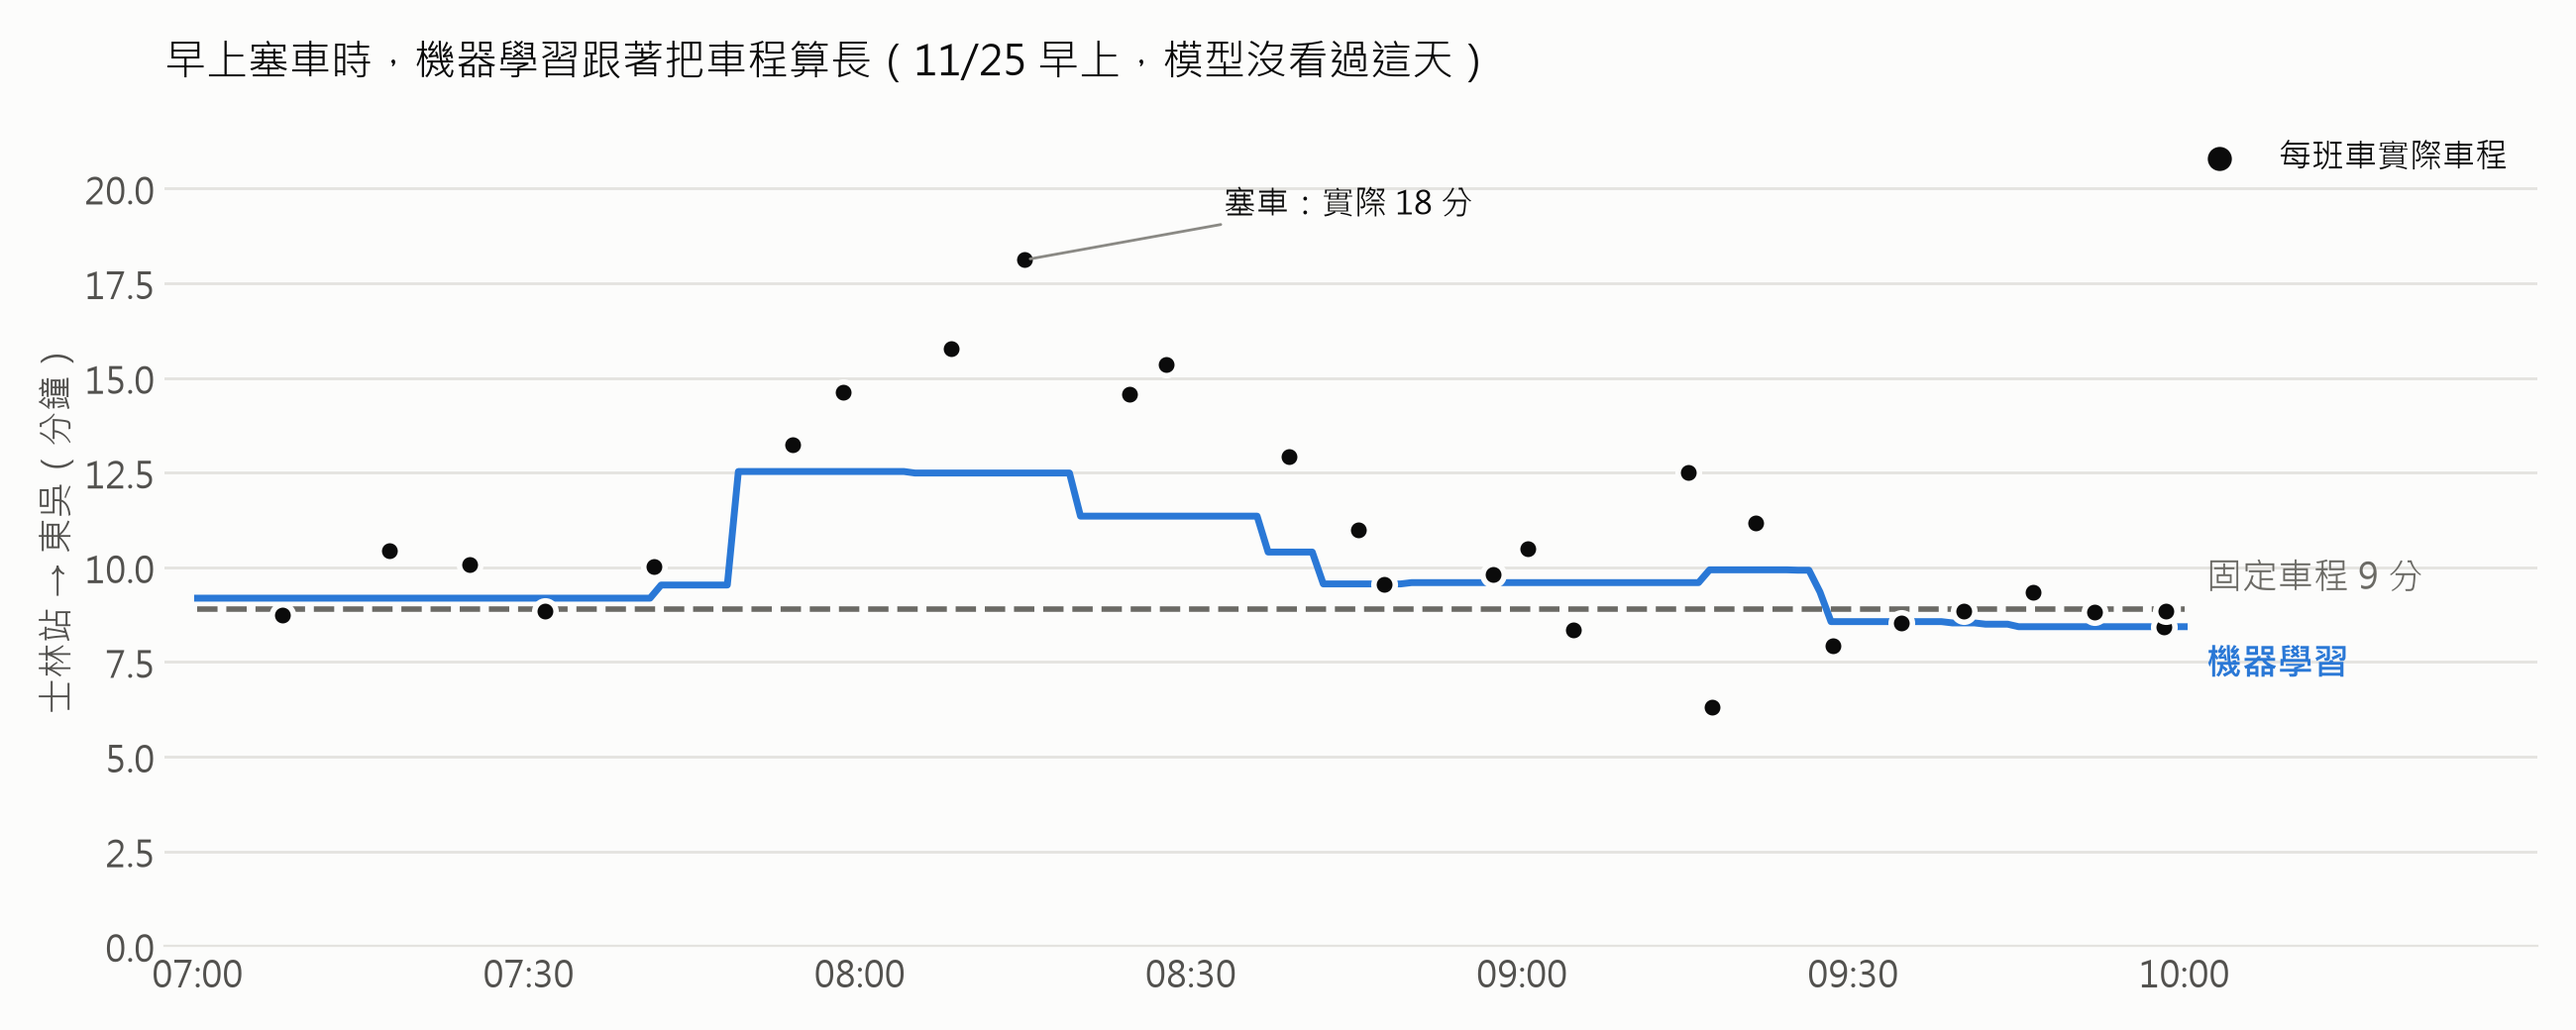
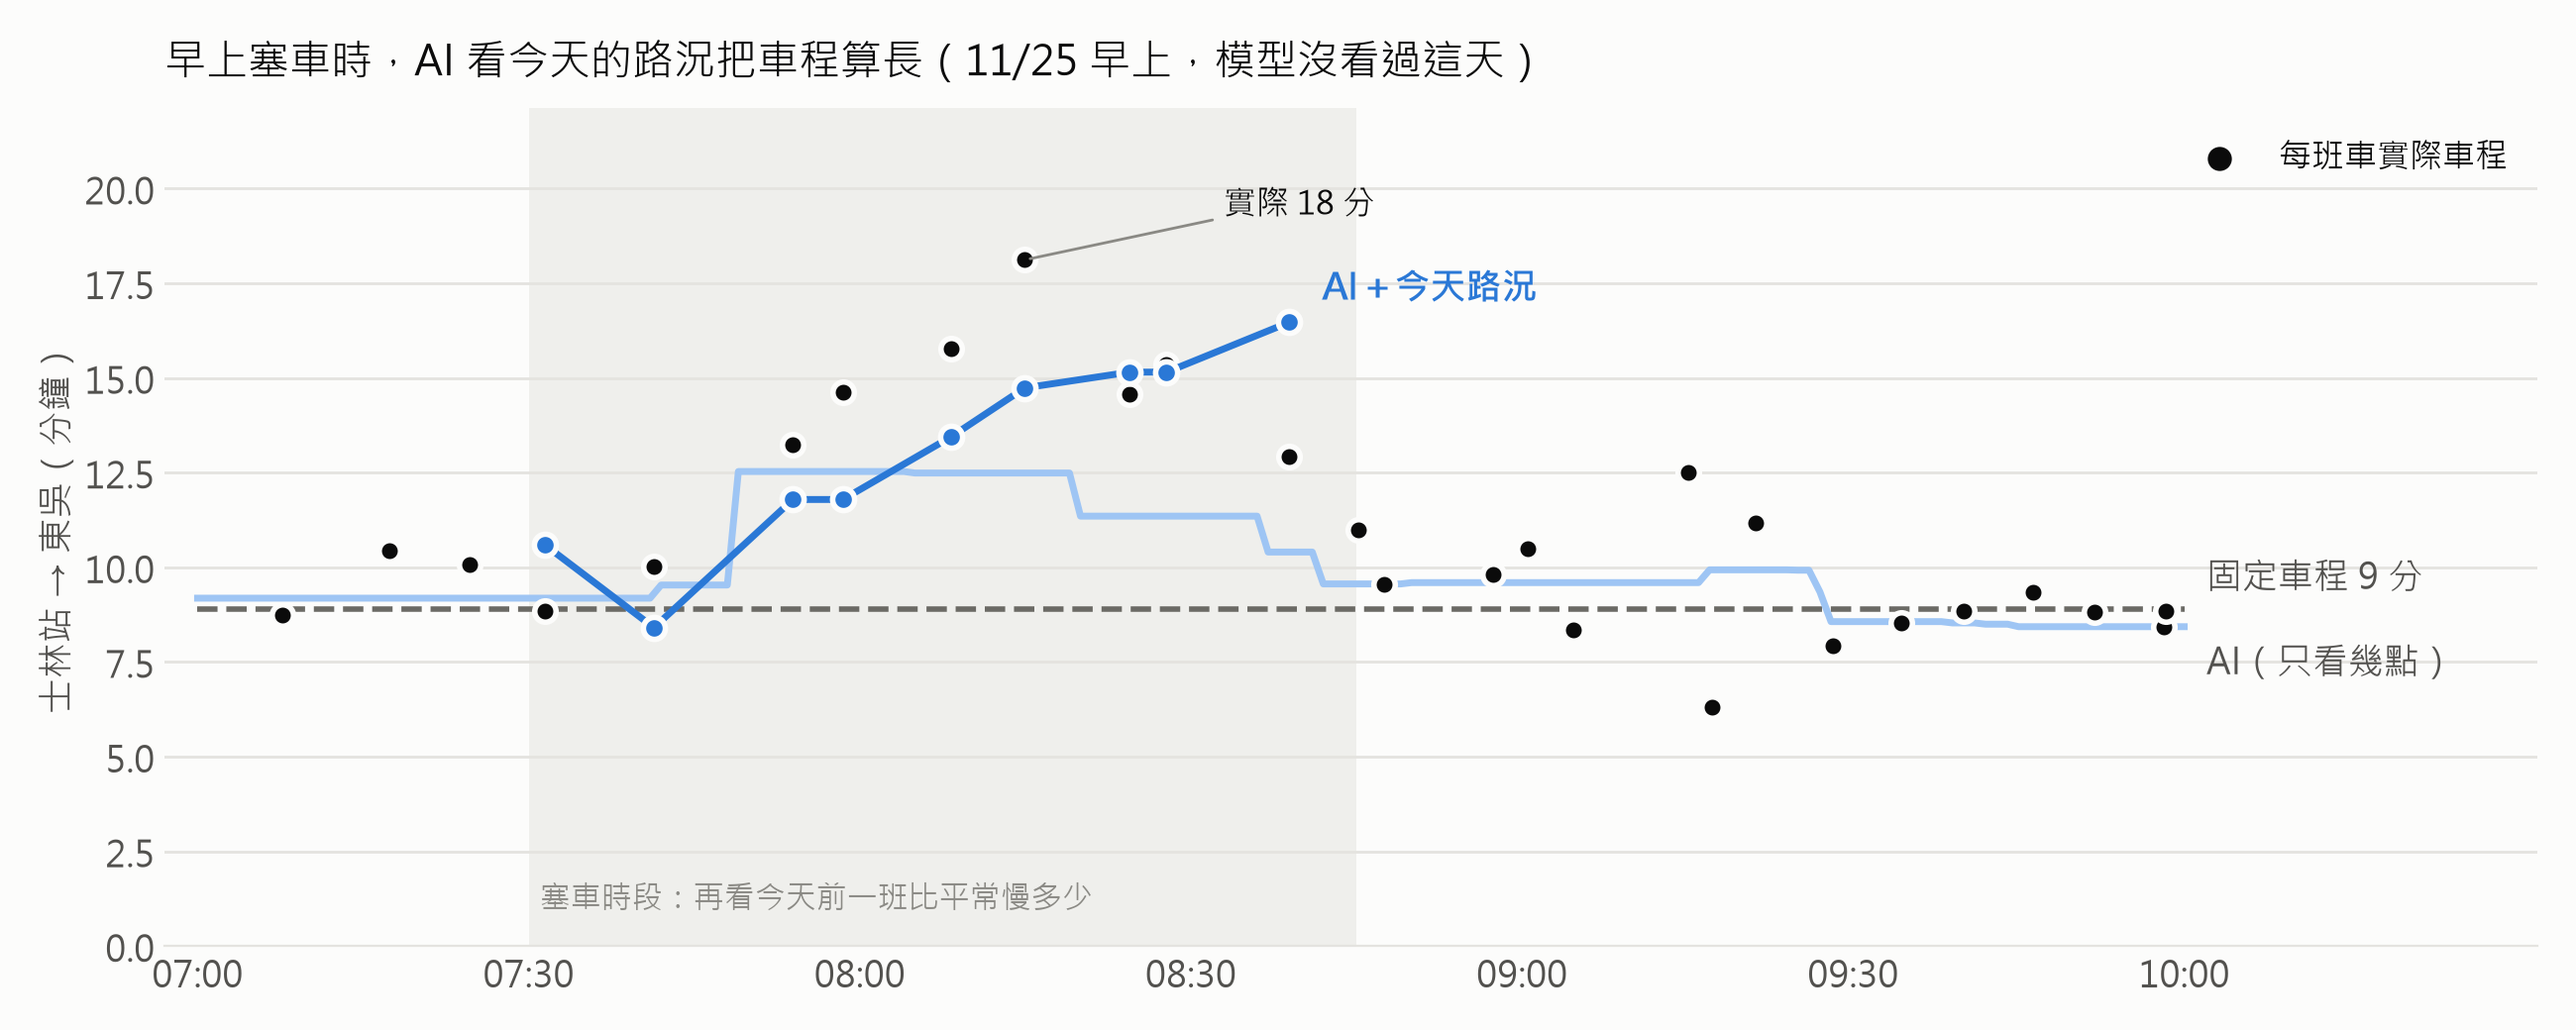
車程模型加今天路況：塞車時段依上一班比平常慢多少線性調整
塞車時段平均差 2.15 → 1.89 分（固定 3.18、v0 2.52），全天 0.88 分；
直接丟給樹模型沒進步、第一次驗證有資料漏洞，都照實寫進文件。

diff --git a/tools/學習557.py b/tools/學習557.py
@@ -7,7 +7,7 @@
   1. 車輛位置 → 幾分鐘後到士林站：路上每台車（含還在跑回程、等一下掉頭的車）現在在哪一站、
      多久前回報、現在幾點、星期幾 → 這台車幾分鐘後開到捷運士林站。學生在家提早 N 分鐘查，
      就挑「N 分鐘後第一台到站的車」
-  2. 車程：士林站 → 東吳幾分鐘（幾點、星期幾）
+  2. 車程：士林站 → 東吳幾分鐘（幾點、星期幾）；塞車時段再依「今天最近一班比平常慢多少」線性調整
   3. 擁擠：這班離開士林站時網站顯示車上幾人（幾點、星期幾、跟前一班隔多久、前一班幾人；
      車快到時再加上離開士林國中的人數）
 
@@ -38,7 +38,8 @@ POS = {(1, s): i for i, s in enumerate(mon.R_ROUTE)} | {(0, s): len(mon.R_ROUTE)
 MRT_POS = POS[(0, mon.MRT)]
 STALE = timedelta(minutes=10)    # 超過這麼久沒回報的車，不知道在哪，不拿來算
 HORIZON = timedelta(minutes=90)  # 位置模型只學 90 分鐘內會到士林站的車
-PEAK = (450, 525)                # 07:30–08:45 塞車時段（從當天 0 點算第幾分鐘）
+PEAK = (450, 525)
+LIVE = (1, 3)                    # 車程模型加「今天最近幾班的車程」：試最近 1 班、3 班                # 07:30–08:45 塞車時段（從當天 0 點算第幾分鐘）
 
 
 def tod(t):
@@ -95,13 +96,18 @@ def position_samples(events, arrivals, day_buses, start, end, step=2):
     return X, y
 
 
+def ride(b):
+    return (b["東吳"] - b["到站"]["士林站"]).total_seconds() / 60
+
+
 def ride_samples(day_buses):
+    """車程的訓練資料：幾點、星期幾 → 士林站到東吳幾分鐘"""
     X, y = [], []
     for b in day_buses:
         at = b["到站"].get("士林站")
         if at:
             X.append([tod(at), at.weekday()])
-            y.append((b["東吳"] - at).total_seconds() / 60)
+            y.append(ride(b))
     return X, y
 
 
@@ -160,22 +166,79 @@ def gbr(**kw):
     return HistGradientBoostingRegressor(**args)
 
 
+def usual_ride(buses, skip, at_tod, window=10):
+    """「平常」這個時間的車程：skip 以外那幾天，前後 window 分鐘內的車程中位數"""
+    w = [ride(b) for d, bs in buses.items() if d not in skip for b in bs
+         if "士林站" in b["到站"] and abs(tod(b["到站"]["士林站"]) - at_tod) <= window]
+    return statistics.median(w) if w else None
+
+
+def today_delay(buses, day, b, skip):
+    """這班到士林站時，今天最近一班已經到東吳的車比「平常」慢幾分鐘（今天塞不塞的即時線索）"""
+    at = b["到站"]["士林站"]
+    done = [u for u in buses[day] if "士林站" in u["到站"] and u["東吳"] <= at]
+    if not done:
+        return None
+    last = max(done, key=lambda u: u["東吳"])
+    usual = usual_ride(buses, skip | {day}, tod(last["到站"]["士林站"]))
+    return None if usual is None else ride(last) - usual
+
+
+def fit_beta(pairs):
+    """這班慢多少 ≈ β × 上一班慢多少（最小平方法，過原點：今天不塞就不調整）"""
+    den = sum(x * x for x, _ in pairs)
+    return sum(x * y for x, y in pairs) / den if den else 0.0
+
+
+def in_peak(b):
+    return PEAK[0] <= tod(b["到站"]["士林站"]) < PEAK[1]
+
+
+def ride_predictions(buses, test):
+    """用 test 以外的天訓練，預測 test 那天每班的車程。回傳 (那天的車, {方法: 預測}, β)
+    「今天比平常慢多少」只在塞車時段用：塞車時段裡，上一班比平常慢、這班多半也慢（三天相關係數約 0.76）；
+    梯度提升樹在塞車時段只有約 20 班可學，學不起來，所以用最簡單的線性調整，只學一個係數 β"""
+    train = [b for d, bs in buses.items() if d != test for b in bs]
+    X, y = ride_samples(train)
+    tb = [b for b in buses[test] if "士林站" in b["到站"]]
+    Xt, _ = ride_samples(tb)
+    med = statistics.median(y)
+    ml = list(gbr().fit(X, y).predict(Xt))
+    # β 只用訓練那幾天學：「平常」不能用到考卷那天，也不能用到這班自己那天
+    pairs = []
+    for d, bs in buses.items():
+        if d == test:
+            continue
+        for b in bs:
+            if "士林站" not in b["到站"] or not in_peak(b):
+                continue
+            dev = today_delay(buses, d, b, {test})
+            usual = usual_ride(buses, {test, d}, tod(b["到站"]["士林站"]))
+            if dev is not None and usual is not None:
+                pairs.append((dev, ride(b) - usual))
+    beta = fit_beta(pairs)
+    adj = []
+    for b, base in zip(tb, ml):
+        dev = today_delay(buses, test, b, {test}) if in_peak(b) else None
+        adj.append(base + beta * dev if dev is not None else base)
+    return tb, {"固定車程": [med] * len(tb),
+                "v0 滑動窗": [statistics.median([v for a, v in zip(X, y) if abs(a[0] - x[0]) <= 10] or [med]) for x in Xt],
+                "機器學習": ml,
+                "機器學習＋今天比平常慢多少": adj}, beta
+
+
 def exam_ride(buses, tests):
-    """車程：固定（整天中位數）、v0 滑動窗、ML"""
+    """車程：固定（整天中位數）、v0 滑動窗、ML（幾點、星期幾）、ML＋今天比平常慢多少（塞車時段線性調整）"""
     out = {}
+    exam_ride.betas = {}
     for test in tests:
-        train = [b for d, bs in buses.items() if d != test for b in bs]
-        X, y = ride_samples(train)
-        Xt, yt = ride_samples(buses[test])
-        m = gbr().fit(X, y)
-        med = statistics.median(y)
-        for k, preds in (("固定車程", [med] * len(yt)),
-                         ("v0 滑動窗", [statistics.median([b for a, b in zip(X, y) if abs(a[0] - x[0]) <= 10] or [med]) for x in Xt]),
-                         ("機器學習", list(m.predict(Xt)))):
-            for x, pr, real in zip(Xt, preds, yt):
-                out.setdefault(("全天", k), []).append(pr - real)
-                if PEAK[0] <= x[0] < PEAK[1]:
-                    out.setdefault(("07:30–08:45 塞車", k), []).append(pr - real)
+        tb, preds, exam_ride.betas[test] = ride_predictions(buses, test)
+        for k, ps in preds.items():
+            for b, pr in zip(tb, ps):
+                e = pr - ride(b)
+                out.setdefault(("全天", k), []).append(e)
+                if in_peak(b):
+                    out.setdefault(("07:30–08:45 塞車", k), []).append(e)
     return out
 
 
@@ -262,6 +325,7 @@ def main():
     rows = []
     for (period, k), e in exam_ride(buses, tests).items():
         rows.append({"模型": "車程（士林站→東吳）", "情況": period, "方法": k, **score(e), "容許": "±3 分", "單位": "分"})
+    print("塞車時段調整係數 β（每輪用訓練那幾天學）：" + "、".join(f"{d[5:]} 當考卷 {b:.2f}" for d, b in exam_ride.betas.items()))
     for k, e in exam_crowd({d: crowd_rows(trips[d]) for d in days}, tests).items():
         rows.append({"模型": "擁擠（離開士林站車上幾人）", "情況": "全天", "方法": k, **score(e, 10), "容許": "±10 人", "單位": "人"})
     for (n, k), e in sorted(exam_home(buses, events, arrivals, tests, a.data).items()):

diff --git a/tests/test_學習557.py b/tests/test_學習557.py
@@ -78,6 +78,19 @@ class FeatureTest(unittest.TestCase):
         self.assertEqual(rows[1]["head"], 10.0)
         self.assertEqual(rows[1]["jhs"], 20)
 
+    def test_fit_beta_through_origin(self):
+        self.assertAlmostEqual(L.fit_beta([(1, 0.8), (2, 1.6), (-1, -0.8)]), 0.8)
+        self.assertEqual(L.fit_beta([]), 0.0)
+
+    def test_today_delay_uses_last_arrived_bus_and_other_days(self):
+        """平常 08:00 開 10 分（另一天）；今天 07:50 那班開了 14 分、08:04 已到東吳 → 08:10 到士林站的車，今天慢 4 分"""
+        today, other = "2026-11-26", "2026-11-25"
+        buses = {other: [bus("07:50", 10, vid="a", day=other)],
+                 today: [bus("07:50", 14, vid="b", day=today), bus("08:10", 15, vid="c", day=today)]}
+        self.assertAlmostEqual(L.today_delay(buses, today, buses[today][1], set()), 4)
+        self.assertIsNone(L.today_delay(buses, today, buses[today][0], set()), "還沒有車開到東吳，不知道今天塞不塞")
+        self.assertIsNone(L.today_delay(buses, today, buses[today][1], {other}), "平常的資料不能用考卷那天")
+
     def test_site_next_only_fresh(self):
         etas = [(at("08:00"), 300)]
         self.assertEqual(L.site_next(etas, at("08:00")), at("08:05"))

diff --git a/到校時間預測.md b/到校時間預測.md
@@ -53,7 +53,8 @@
 | 模型 | 預測什麼 | 用什麼預測 | 基準 | **機器學習** | 進步 |
 |---|---|---|---|---|---|
 | **車程** | 士林站 → 東吳幾分鐘 | 幾點、星期幾 | 固定車程 1.04 分／v0 0.98 分 | **0.91 分** | 比固定少差 13% |
-| 　└ 07:30–08:45 塞車 | | | 固定 3.18 分／v0 2.52 分 | **2.15 分** | **比固定少差 32%**（只有 27 班，樣本少） |
+| 　└ 07:30–08:45 塞車 | | | 固定 3.18 分／v0 2.52 分 | 2.15 分 | 比固定少差 32%（只有 27 班，樣本少） |
+| 　└ 塞車＋**今天路況** | | 再加「今天最近一班到東吳的車比平常慢幾分」 | 固定 3.18 分／v0 2.52 分 | **1.89 分**（±3 分內 78%） | **比固定少差 41%、比 v0 少差 25%** |
 | **擁擠・提早** | 這班離開士林站車上幾人 | 幾點、星期幾、跟前一班隔多久、前一班幾人 | 同時段歷史 9.7 人 | **8.5 人** | 少差 13% |
 | **擁擠・車快到** | 同上 | 再加上離開士林國中時的人數 | 同時段歷史 9.7 人 | **6.3 人**（±10 人內 82%） | **少差 35%** |
 | **車輛位置・現在出門** | 幾點到東吳 | 路上每台車在哪一站、多久前回報、幾點、星期幾 | Bot 4.71 分／v0 3.91 分／網站下一班 3.11 分 | **2.97 分**（±3 分內 68%） | **比 Bot 少差 37%** |
@@ -62,7 +63,16 @@
 **三天分開看**（不是某一天剛好）：
 - **擁擠**：三天都比同時段歷史準（車快到版每天約 6.2–6.5 人，歷史 9.5–10.2 人）
 - **現在出門**：三天都比 Bot、v0 準；跟「網站下一班」比，11/25、11/26 贏，11/27 打平（都是 3.5 分）
-- **車程**：不是每天都贏。全天看，11/26 輸 v0（0.85 vs 0.80）、11/27 輸固定車程（0.99 vs 0.84，星期五不塞）；塞車時段三天都比 v0 準，但 11/27 輸固定車程。**整體贏，但幅度小，還要更多天確認**
+- **車程**：不是每天都贏。全天看，11/26 輸 v0（0.85 vs 0.80）、11/27 輸固定車程（0.99 vs 0.84，星期五不塞）；塞車時段三天都比 v0 準，但 11/27 輸固定車程。**整體贏，但幅度小，還要更多天確認**。加「今天路況」後：全天 0.88 分（三種裡最準），塞車時段 11/25、11/27 變好、11/26 變差（見下面）
+
+**車程加「今天路況」怎麼來的**（11/27）：
+- 只看幾點、星期幾的模型，等於學「另外兩天的平均」。11/25 是三天最塞的（08:00–08:30 車程中位數 15.6 分，另外兩天 14.2、11.3 分），模型只算到約 12.5 分
+- 試過把「今天最近 1 班、最近 3 班的車程」直接丟給梯度提升樹：沒進步（最近 1 班 2.16 分、最近 3 班 2.57 分）；加「這班國中→士林站開了多久」也沒用（2.43 分，相關係數只有 0.14）
+- 但塞車時段「上一班比平常慢多少」跟「這班比平常慢多少」相關係數 **0.76**，線索是有用的。樹模型在塞車時段只有約 20 班可學，切不出來；改用**最簡單的線性調整**：這班車程 = 機器學習的預測 + β ×（上一班比平常慢幾分），只學一個係數 β
+- β 也用輪流考試學：「平常」不用考卷那天，也不用這班自己那天（第一次算時「平常」混到考卷那天，得到 1.65 分，是**錯的**，已修正）
+- 三輪學到的 β：0.92、0.95、0.30（11/27 當考卷那輪只剩 11/25、11/26 能學，不穩）
+- 只在塞車時段（07:30–08:45）調整；其他時段車程穩，不調整
+- **弱點**：看的是「上一班」，所以慢半拍。塞車剛退時會多估（11/25 08:40 那班算 16.5 分，實際 13 分）；三天裡 11/26 反而變差（1.16 → 1.93 分），11/25、11/27 變好（2.52 → 1.96、2.60 → 1.78）
 
 **在家提早 10–30 分鐘為什麼沒贏**：
 - 這麼早，要搭的那班車多半還在天文館或回程上，車在天文館停多久每次不一樣，路上的位置還看不出它幾點會到士林站
@@ -78,7 +88,7 @@
 
 **直觀呈現（簡報用）**：
 1. **誤差長條圖**：Bot、v0、機器學習三根長條，機器學習最短
-2. **一個早上的折線圖**：11/27 07:00–10:00 每班車的實際車程，疊上固定車程（一條平線）和機器學習的預測，看塞車時誰跟得上
+2. **一個早上的折線圖**（[design/簡報圖/2_塞車車程.png](design/簡報圖/2_塞車車程.png)）：11/25 07:00–10:00 每班車的實際車程，疊上固定車程、AI（只看幾點）、AI＋今天路況。選 11/25 是因為最塞、看得出差別；11/27 不塞，固定車程反而最準
 3. **一個實際例子**：「車離開士林國中時 40 人、前一班隔 12 分 → AI 預測離開士林站約 62 人，快滿了，建議等下一班」
 4. 附錄：預測 vs 實際的散布圖、模型最看重哪些特徵
 
@@ -94,7 +104,7 @@
 
 ### 學到的
 
-1. **機器學習在「看得到的東西」上有效**：車快到時會多擠、10 分鐘內會到的車，三天都比統計和 Bot 準；車程整體也比較準，但幅度小、不是每天都贏
+1. **機器學習在「看得到的東西」上有效**：車快到時會多擠、10 分鐘內會到的車，三天都比統計和 Bot 準；車程加上「今天路況」後塞車時段比固定車程少差 41%，但看的是上一班、會慢半拍，也不是每天都贏
 2. **看不到的東西，機器學習也猜不準**：提早 10 分鐘以上，車還沒上路，等車只能靠歷史，大約差 4 分鐘
 3. **門檻 20、傍晚沒有贏 Bot**
 4. **星期五**：11/27 早上車程比較短，但只有一天，先當一般天數算
@@ -106,7 +116,7 @@
 3. **接上 Bot 和 Gemini**：模型算數字，Gemini 聽懂問題、說成建議
 4. **試辦**：用出門打卡、到校打卡的真實資料對答案
 
-**簡報可以這樣說**：「AI 預估從家到東吳：現在出門的到校時間比現行算法少差 37%；車快到時預測車上人數，誤差比歷史平均少 35%（約 6 人）。全部用模型沒看過的日子考試。」（車程三天不是每天都贏，簡報不單獨強調）
+**簡報可以這樣說**：「AI 預估從家到東吳：現在出門的到校時間比現行算法少差 37%；車快到時預測車上人數，誤差比歷史平均少 35%（約 6 人）。全部用模型沒看過的日子考試。」若要講車程：「塞車時 AI 看今天前一班的路況調整，誤差比固定算法少 41%」，並說明只有 27 班、不是每天都贏
 
 **原則：**
 - **只用網站資料**：時間不夠做現場觀察。網站給不了的東西（例如排隊人數）直接寫出來，不用猜的補
